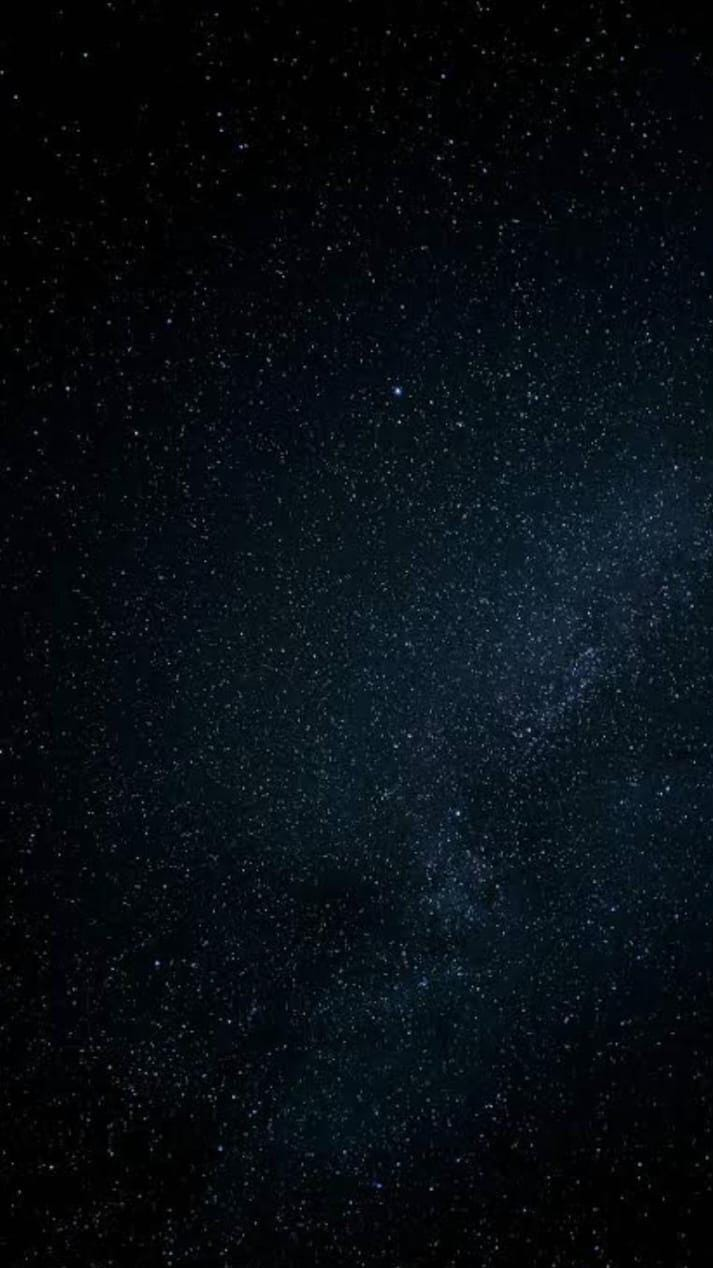
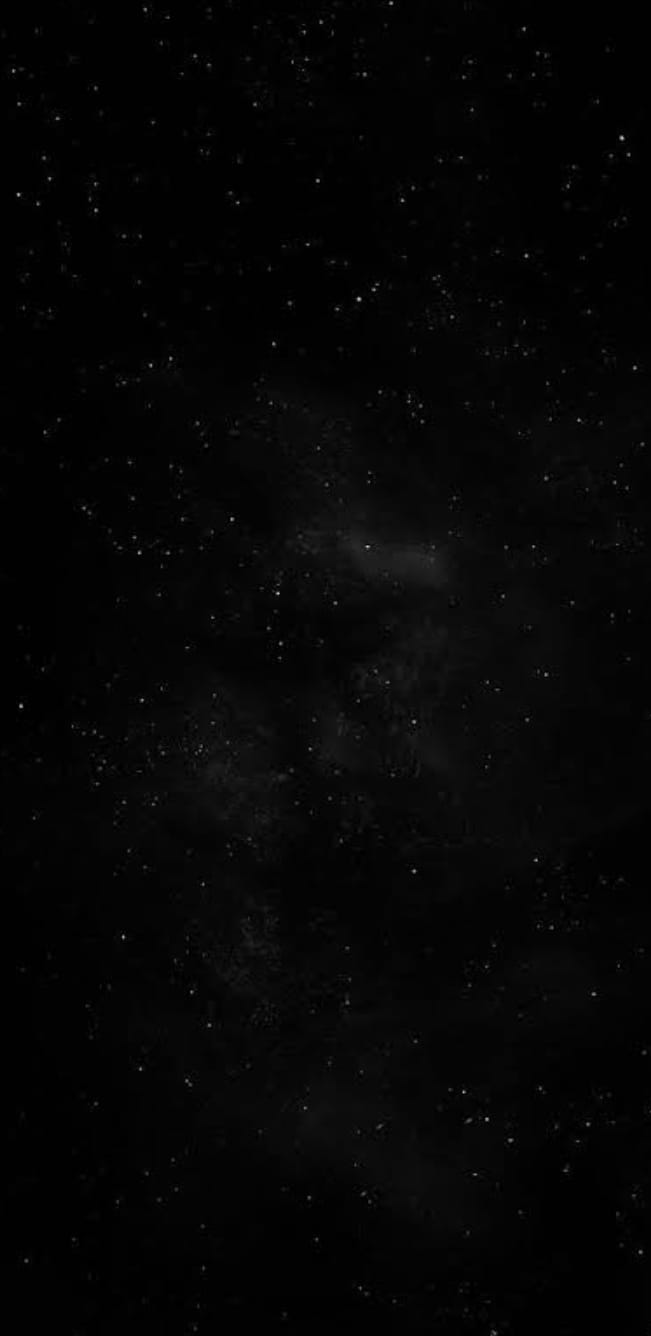
dec-2

diff --git a/src/components/Profile.js b/src/components/Profile.js
@@ -9,7 +9,7 @@ import Ton from "../assets/ton.png";
 import "react-toastify/dist/ReactToastify.css";
 import { useTonConnectUI, useTonAddress } from "@tonconnect/ui-react";
 import { useLoading } from ".//LoadingContext";
-
+import './Profile.css'
 const Profile = () => {
   const { setIsLoading } = useLoading();
   const [profileData, setProfileData] = useState(null);
@@ -194,7 +194,7 @@ const Profile = () => {
   useEffect(() => {
     if (currentCoins !== previousCoins.current) {
       const coinElement = document.getElementById("rolling-coins");
-      coinElement.style.transform = 'translateY(-130%)';
+      coinElement.style.transform = "translateY(-130%)";
       setTimeout(() => {
         previousCoins.current = currentCoins;
         coinElement.style.transition = "none";
@@ -207,7 +207,7 @@ const Profile = () => {
   }, [currentCoins]);
 
   return (
-    <div style={styles.container}>
+    <div className="container">
       <div style={styles.profileContainer}>
         <div style={styles.userInfo}>
           <div style={styles.profileIcon}>
@@ -289,7 +289,7 @@ const Profile = () => {
 
           <div style={styles.box4}>
             <div
-              style={{ ...styles.progressBar, width: `${progressPercentage}%`}}
+              style={{ ...styles.progressBar, width: `${progressPercentage}%` }}
             ></div>
             {!isFarming && !claimAvailable && (
               <button style={styles.startButton} onClick={startFarming}>
@@ -305,15 +305,21 @@ const Profile = () => {
                   width: "100%",
                 }}
               >
-                <div style={{ marginTop: "6px", marginLeft:"-60px",zIndex:'10' }}>
-                  <p style={{ color: "white", fontWeight: "bolder"}}>
+                <div
+                  style={{
+                    marginTop: "6px",
+                    marginLeft: "-60px",
+                    zIndex: "10",
+                  }}
+                >
+                  <p style={{ color: "white", fontWeight: "bolder" }}>
                     <i class="fa-solid fa-person-digging me-1"></i>
                     <span className="me-1">Mining</span>
                     <span
                       style={(styles.coins, styles.coinNumber)}
                       id="rolling-coins"
                     >
-                        {currentCoins} {/* Display coins with 3 decimals */}
+                      {currentCoins} {/* Display coins with 3 decimals */}
                     </span>
                   </p>
                 </div>
@@ -448,14 +454,6 @@ const Profile = () => {
 };
 
 const styles = {
-  container: {
-    backgroundColor: "#000",
-    color: "#fff",
-    height: "83%",
-    display: "flex",
-    flexDirection: "column",
-    alignItems: "center",
-  },
   coins: {
     fontSize: "18px",
     fontWeight: "bold",

diff --git a/src/pages/Leader.css b/src/pages/Leader.css
@@ -1,4 +1,3 @@
-
 .lead {
   color: white;
   text-align: center;
@@ -21,8 +20,8 @@ h1 {
   margin-right: 30px;
   border-radius: 18px;
   align-items: center;
-  box-shadow: 0px 4px 10px rgba(43, 43, 43,0.4), /* Soft shadow */
-              0px 0px 20px rgba(244, 246, 246, 0.6); /* Glow effect */
+  box-shadow: 0px 4px 10px rgba(43, 43, 43, 0.4),
+    /* Soft shadow */ 0px 0px 20px rgba(244, 246, 246, 0.6); /* Glow effect */
 }
 
 .board {
@@ -66,7 +65,6 @@ h1 {
 .end {
   padding-right: 18px;
   padding-bottom: 10px;
- 
 }
 
 .align {
@@ -82,17 +80,18 @@ h1 {
   background-color: #000;
   border-radius: 15px;
   box-shadow: 0px 4px 10px rgba(0, 0, 0, 0.5);
-  margin:auto; /* Centers the container with a smaller margin */
+  margin: auto; /* Centers the container with a smaller margin */
   padding: 1px;
   color: white;
+  background-image: url("../assets/dark.jpg");
 }
 
-.profileInitial{
+.profileInitial {
   color: #000;
   font-weight: bold;
   font-size: 30px;
 }
-.profile{
+.profile {
   height: 50px;
   width: 50px;
   display: flex;
@@ -101,7 +100,6 @@ h1 {
   background-color: white;
   border-radius: 50%;
   margin-right: -0.5rem;
-
 }
 
 /* Hide scrollbar for Webkit browsers (Chrome, Safari, Edge) */

diff --git a/src/pages/Landing.js b/src/pages/Landing.js
@@ -7,7 +7,7 @@ import axios from "axios";
 import { toast } from "react-toastify";
 import { useNavigate } from "react-router-dom";
 import config from "../config";
-
+import Coin from '../assets/pic.jpg'
 const Landing = () => {
   const [position, setPosition] = useState(0);
   const [coins, setCoins] = useState([]);
@@ -315,7 +315,7 @@ const Landing = () => {
                 left: `${coin.left}px`,
                 top: `${coin.top}%`,
                 backgroundImage:
-                  "url(https://coffee-geographical-ape-289.mypinata.cloud/ipfs/QmcSxjgDfcU2qX9FAHJZvSkgenUWvPepAw9JiNk2nJmeM3)",
+                  `url(${Coin})`,
                 backgroundSize: "cover",
                 backgroundRepeat: "no-repeat",
                 width: coin.size === "large" ? "80px" : "40px",

diff --git a/src/pages/Tasks.css b/src/pages/Tasks.css
@@ -3,7 +3,7 @@
   max-width: 375px; /* Set max-width to simulate the mobile screen */
   height: 83vh;
   overflow-y: scroll;
-  background-color: #000;
+  /* background-color: #000; */
   border-radius: 15px;
   box-shadow: 0px 4px 10px rgba(0, 0, 0, 0.5);
   margin: 20px auto; /* Centers the container with a smaller margin */
@@ -21,6 +21,10 @@
   color: black;
   padding: 1px 15px;
   background-color: skyblue;
+}
+.clmbtn:hover{
+  background-color: skyblue;
+  color: black;
 }
 /* Hide scrollbar for Webkit browsers (Chrome, Safari, Edge) */
 .mobile-container::-webkit-scrollbar {

diff --git a/src/components/Profile.css b/src/components/Profile.css
@@ -1,0 +1,9 @@
+.container {
+    /* background-color: #000; */
+    color: #fff;
+    height: 83%;
+    display: flex;
+    flex-direction: column;
+    align-items: center;
+    /* background-image: url('../assets/dark.jpg') */
+  };

diff --git a/src/index.css b/src/index.css
@@ -1,6 +1,7 @@
 body {
   background-color: black;
   scrollbar-width: none;
+  background-image: url('./assets/dark.jpg');
 }
 body::-webkit-scrollbar{
   display: none;
